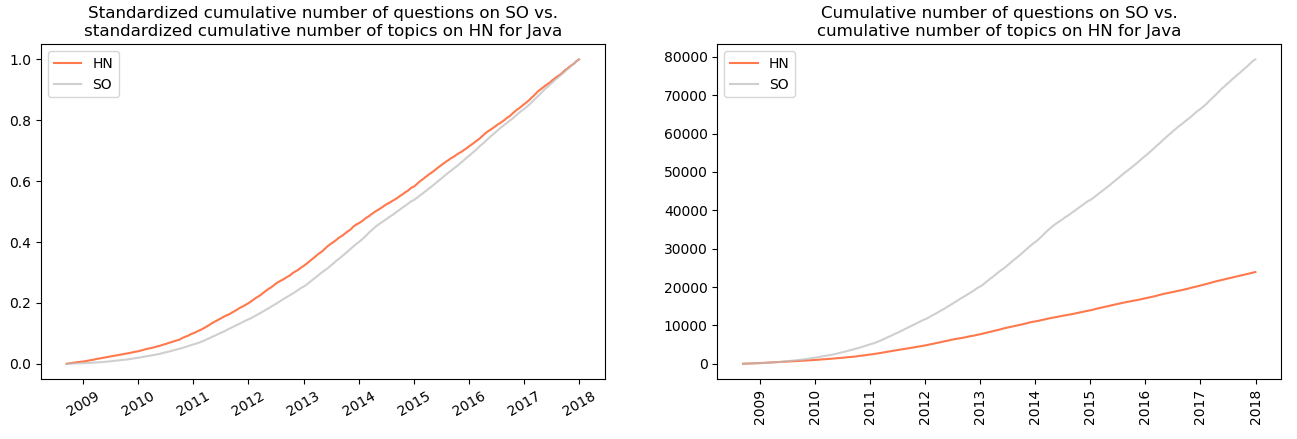
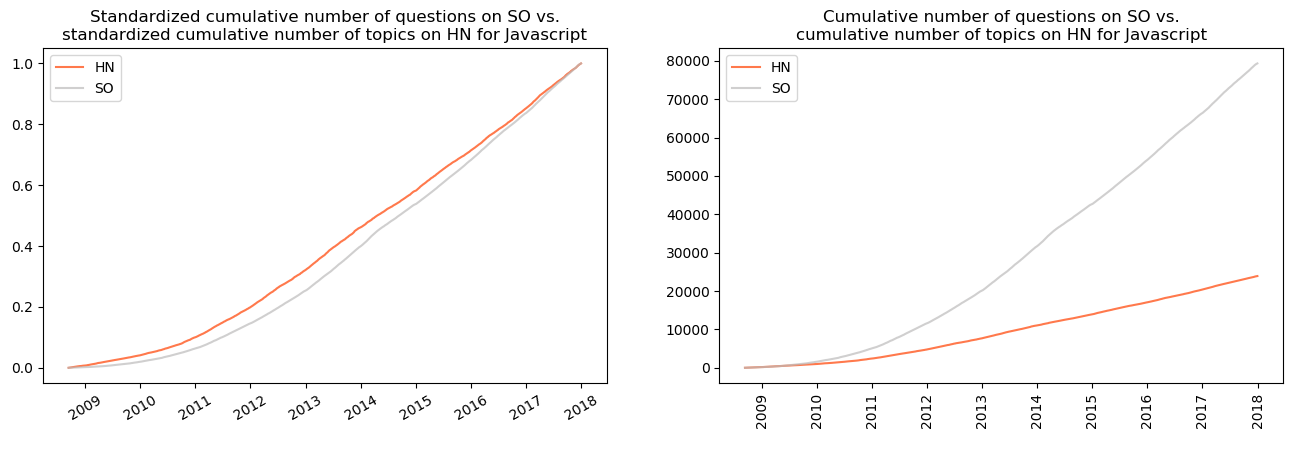
Update of Javascript plot & correction in text

diff --git a/README.md b/README.md
@@ -1,12 +1,10 @@
-Does popularity of technology on Stack Overflow (SO) influence popularity
-of post about this technology on Hacker News (HN)?
+Does popularity of technology on Stack Overflow (SO) influence
+popularity of post about this technology on Hacker News (HN)?
 ================
 dgwozdz & pmigdal<br/>
 3<sup>rd</sup> JUNE 2018
 
-Last update: 6<sup>th</sup> JUNE 2018
-
-Hacker News discussion thread: [https://news.ycombinator.com/item?id=17277550]
+Last update: 10<sup>th</sup> JUNE 2018
 
 ## Table of Contents
 
@@ -825,18 +823,18 @@ the number of negatively rated questions high (or the number of negative
 points for some questions) was so high that the cumulative number of
 points for those technologies dropped (even by a half from its maximum).
 
-To sum up: does popularity of technology on Stack Overflow (SO) influence
-popularity of post about this technology on Hacker News (HN)? **There
-seems to be a relationship between those two portals but I could not
-determine that popularity on Stack Overflow causes popularity on Hacker
-News.**
+To sum up: does popularity of technology on Stack Overflow (SO)
+influence popularity of post about this technology on Hacker News (HN)?
+**There seems to be a relationship between those two portals but I could
+not determine that popularity on Stack Overflow causes popularity on
+Hacker News.**
 
 ## 6\. Further research <a href="#" name="further"></a>
 
 Further research in this topic may include:
 
 1)  Investingating other technologies (e.g. if tensorflow was checked,
-    e.g. keras and pytorch could be included.
+    e.g. keras and pytorch could be included).
 2)  Using other, named or unnamed above variables (e.g. number of times
     questions were flagged as favourites in a certain life spans).
 3)  Using other statistical methods.
